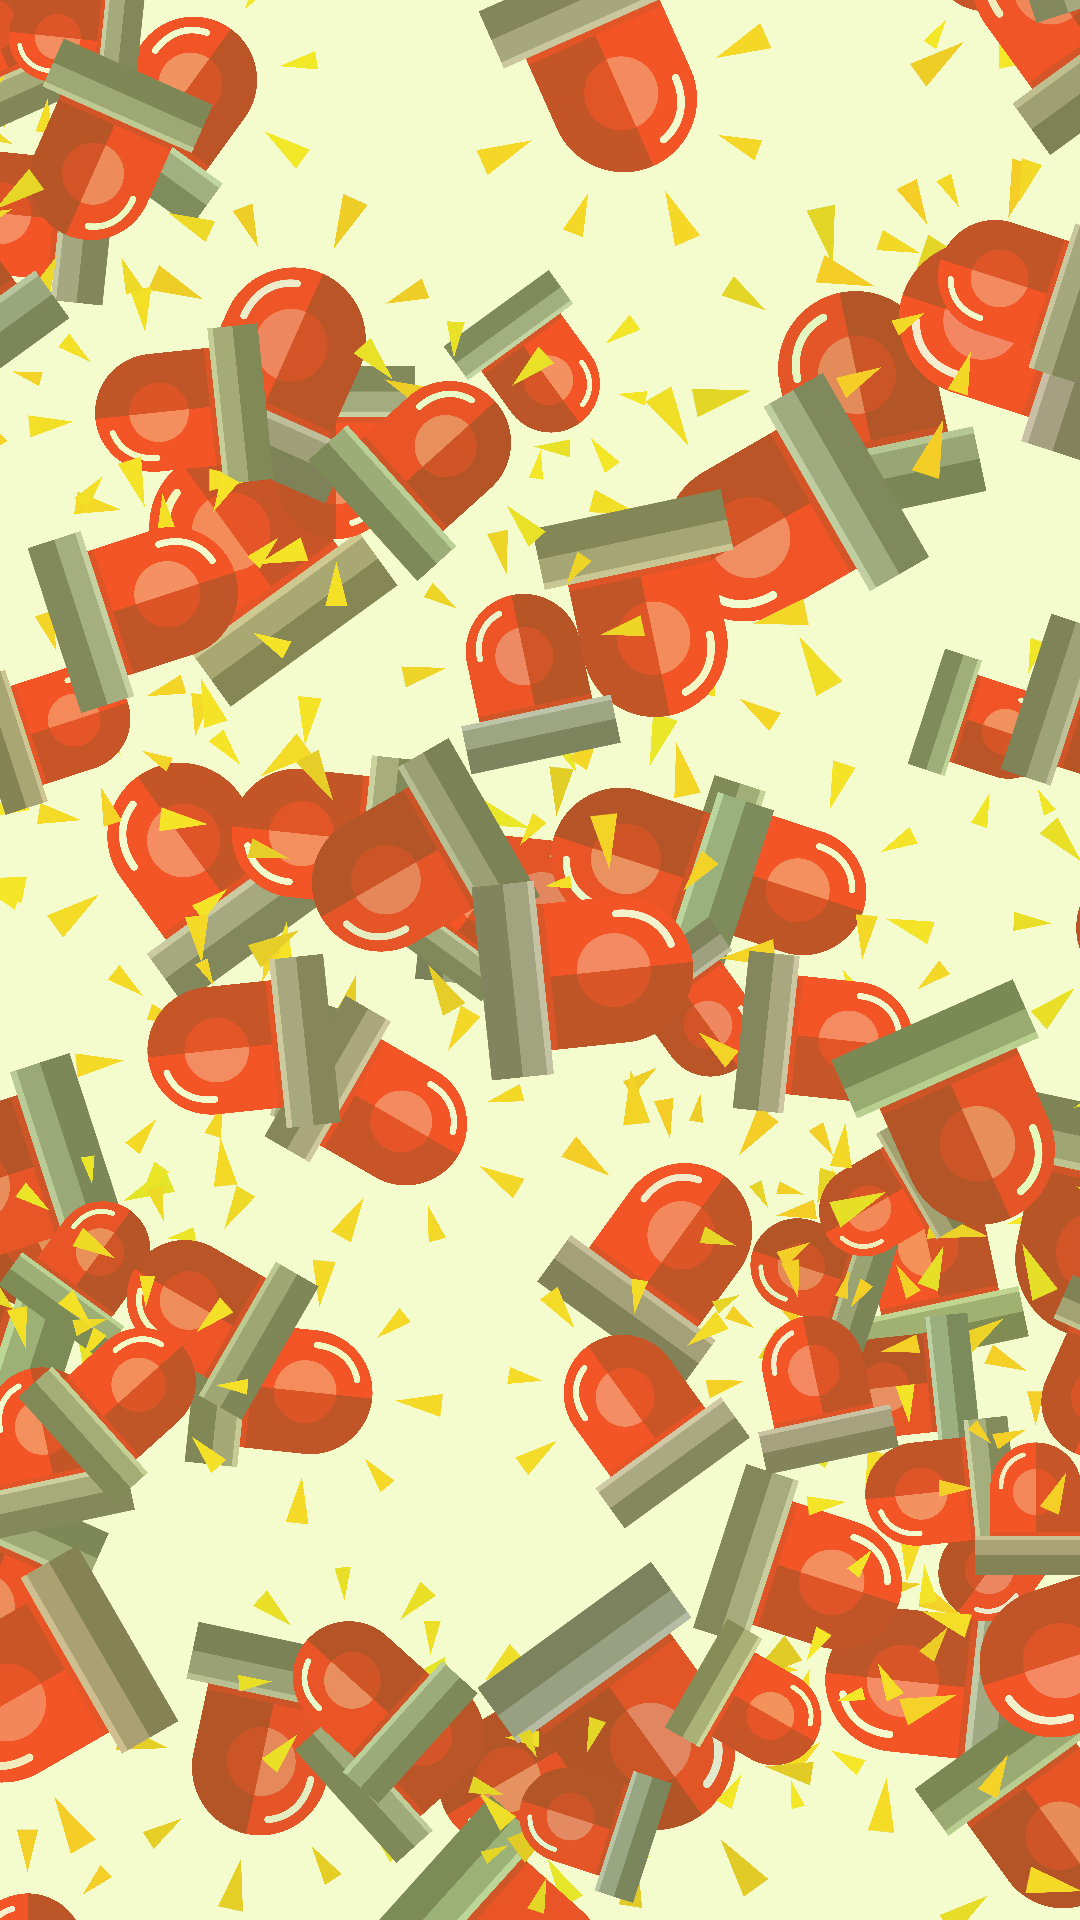
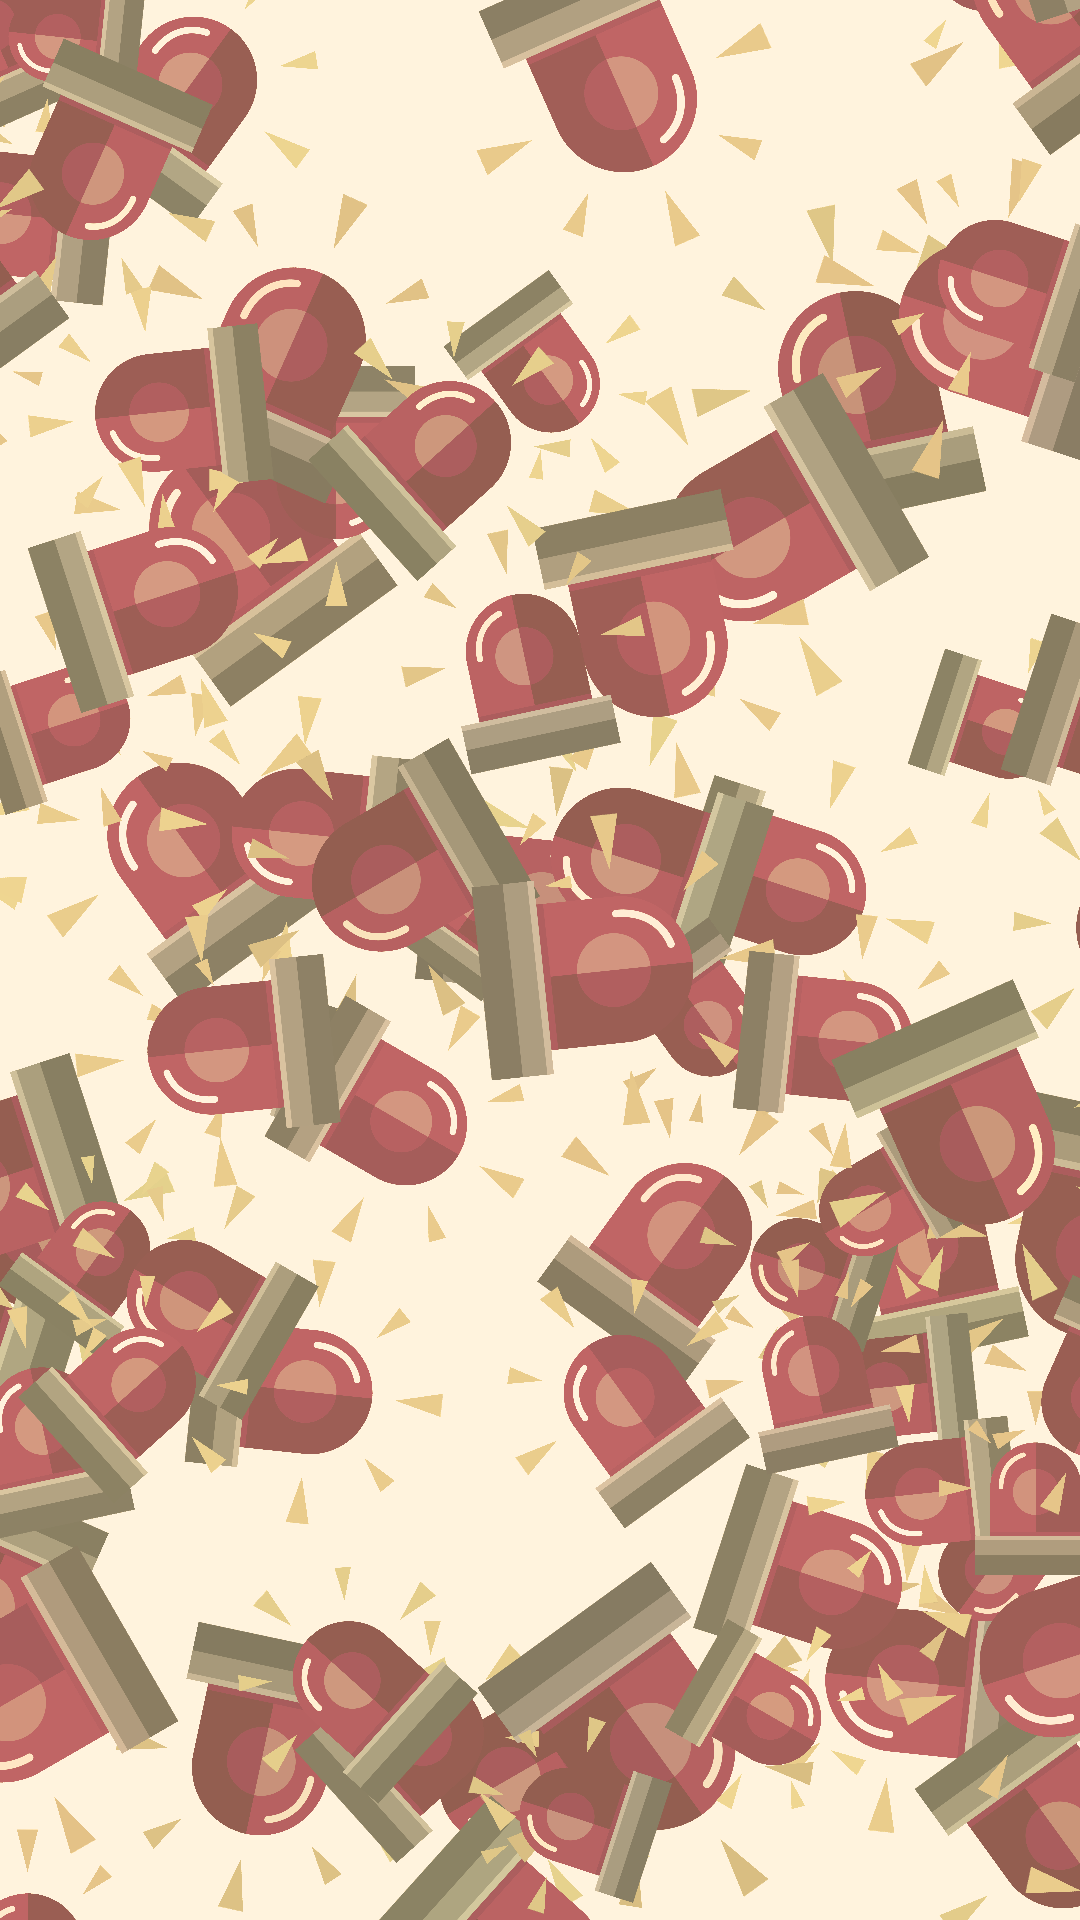
Changed button style and animation, background img and button texts

diff --git a/src/app/home/home.page.scss b/src/app/home/home.page.scss
@@ -1,5 +1,5 @@
 .container {
-  height: 100%;
+  height: calc(100% - 56px);
   display: flex;
   align-items: center;
   justify-content: center;
@@ -7,11 +7,19 @@
   @media (orientation: portrait) {
     flex-direction: column;
 
-    ion-button {
-      width: 75vw;
+    .img-container {
+      &.move-around {
+        -webkit-animation: move-vertical 1.5s linear infinite;
+        animation: move-vertical 1.5s linear infinite;
+      }
 
       img {
-        width: 100%;
+        max-width: 100%;
+
+        &.wobble {
+          -webkit-animation: wobble 0.8s ease-in-out infinite;
+          animation: wobble 0.8s ease-in-out infinite;
+        }
       }
     }
   }
@@ -19,24 +27,62 @@
   @media (orientation: landscape) {
     flex-direction: row;
 
-    ion-button {
-      height: 75vh;
+    .img-container {
+      height: 100%;
+
+      &.move-around {
+        -webkit-animation: move-horizontal 1.5s linear infinite;
+        animation: move-horizontal 1.5s linear infinite;
+      }
 
       img {
-        height: 100%;
+        max-height: 100%;
+
+        &.wobble {
+          -webkit-animation: wobble 0.8s ease-in-out infinite;
+          animation: wobble 0.8s ease-in-out infinite;
+        }
       }
     }
   }
-
-  .wobble {
-    -webkit-animation: wobble-hor-top 0.8s ease-in-out infinite;
-    animation: wobble-hor-top 0.8s ease-in-out infinite;
-  }
 }
 
-/* BELL ANIMATION */
-@-webkit-keyframes wobble-hor-top {
+/* WOBBLE ANIMATION */
+@-webkit-keyframes wobble {
+  0%,
+  100% {
+    -webkit-transform: translateX(0%);
+    transform: translateX(0%);
+    -webkit-transform-origin: 50% 50%;
+    transform-origin: 50% 50%;
+  }
 
+  15% {
+    -webkit-transform: translateX(-30px) rotate(6deg);
+    transform: translateX(-30px) rotate(6deg);
+  }
+
+  30% {
+    -webkit-transform: translateX(15px) rotate(-6deg);
+    transform: translateX(15px) rotate(-6deg);
+  }
+
+  45% {
+    -webkit-transform: translateX(-15px) rotate(3.6deg);
+    transform: translateX(-15px) rotate(3.6deg);
+  }
+
+  60% {
+    -webkit-transform: translateX(9px) rotate(-2.4deg);
+    transform: translateX(9px) rotate(-2.4deg);
+  }
+
+  75% {
+    -webkit-transform: translateX(-6px) rotate(1.2deg);
+    transform: translateX(-6px) rotate(1.2deg);
+  }
+}
+@keyframes wobble {
   0%,
   100% {
     -webkit-transform: translateX(0%);
@@ -71,38 +117,76 @@
   }
 }
 
-@keyframes wobble-hor-top {
-
+/* HORIZONTAL ANIMATION */
+@-webkit-keyframes move-horizontal {
   0%,
-  100% {
-    -webkit-transform: translateX(0%);
-    transform: translateX(0%);
-    -webkit-transform-origin: 50% 50%;
-    transform-origin: 50% 50%;
+  50% {
+    -webkit-transform: translateX(0);
+    transform: translateX(0);
   }
 
-  15% {
-    -webkit-transform: translateX(-30px) rotate(6deg);
-    transform: translateX(-30px) rotate(6deg);
-  }
-
-  30% {
-    -webkit-transform: translateX(15px) rotate(-6deg);
-    transform: translateX(15px) rotate(-6deg);
-  }
-
-  45% {
-    -webkit-transform: translateX(-15px) rotate(3.6deg);
-    transform: translateX(-15px) rotate(3.6deg);
-  }
-
-  60% {
-    -webkit-transform: translateX(9px) rotate(-2.4deg);
-    transform: translateX(9px) rotate(-2.4deg);
+  25% {
+    -webkit-transform: translateX(50%);
+    transform: translateX(50%);
   }
 
   75% {
-    -webkit-transform: translateX(-6px) rotate(1.2deg);
-    transform: translateX(-6px) rotate(1.2deg);
+    -webkit-transform: translateX(-50%);
+    transform: translateX(-50%);
+  }
+}
+@keyframes move-horizontal {
+  0%,
+  50% {
+    -webkit-transform: translateX(0);
+    transform: translateX(0);
+  }
+
+  25% {
+    -webkit-transform: translateX(50%);
+    transform: translateX(50%);
+  }
+
+  75% {
+    -webkit-transform: translateX(-50%);
+    transform: translateX(-50%);
+  }
+}
+
+/* VERTICAL ANIMATION */
+@-webkit-keyframes move-vertical {
+  0%,
+  50%,
+  100% {
+    -webkit-transform: translateY(0);
+    transform: translateY(0);
+  }
+
+  25% {
+    -webkit-transform: translateY(50%);
+    transform: translateY(50%);
+  }
+
+  75% {
+    -webkit-transform: translateY(-50%);
+    transform: translateY(-50%);
+  }
+}
+@keyframes move-vertical {
+  0%,
+  50%,
+  100% {
+    -webkit-transform: translateY(0);
+    transform: translateY(0);
+  }
+
+  25% {
+    -webkit-transform: translateY(50%);
+    transform: translateY(50%);
+  }
+
+  75% {
+    -webkit-transform: translateY(-50%);
+    transform: translateY(-50%);
   }
 }

diff --git a/src/app/home/home.page.ts b/src/app/home/home.page.ts
@@ -38,7 +38,7 @@ export class HomePage implements OnInit, OnDestroy {
   async ngOnInit() {
     await MySwal.fire({
       title: 'Atención',
-      html: 'Para un buen funcionamiento de la aplicación, <b>acueste el celular boca arriba</b>.',
+      html: '<h1>Para un buen funcionamiento de la aplicación, <b>acueste el celular boca arriba</b>.</h1>',
       icon: 'warning',
       showConfirmButton: true,
       confirmButtonText: 'Aceptar',
@@ -64,7 +64,10 @@ export class HomePage implements OnInit, OnDestroy {
         inputAttributes: {
           'aria-label': 'Ingrese su contraseña'
         },
+        showConfirmButton: true,
+        confirmButtonText: 'Desactivar',
         showCancelButton: true,
+        cancelButtonText: 'Cancelar',
         preConfirm: async (pass: string) => {
           if (this.isAudioPlaying) return null;
           if (pass === this.userPass) return true;

diff --git a/src/app/home/home.page.html b/src/app/home/home.page.html
@@ -8,7 +8,7 @@
 </ion-header>
 
 <div class="container bg-img">
-  <ion-button (click)="toggleAlarm()" color="danger">
-    <img src="../../assets/alarm.png" [class]="isActivated ? 'wobble' : ''">
-  </ion-button>
+  <div class="img-container" [class]="isActivated ? 'move-around' : ''">
+    <img src="../../assets/alarm.png" [class]="isActivated ? 'wobble' : ''" (click)="toggleAlarm()">
+  </div>
 </div>
